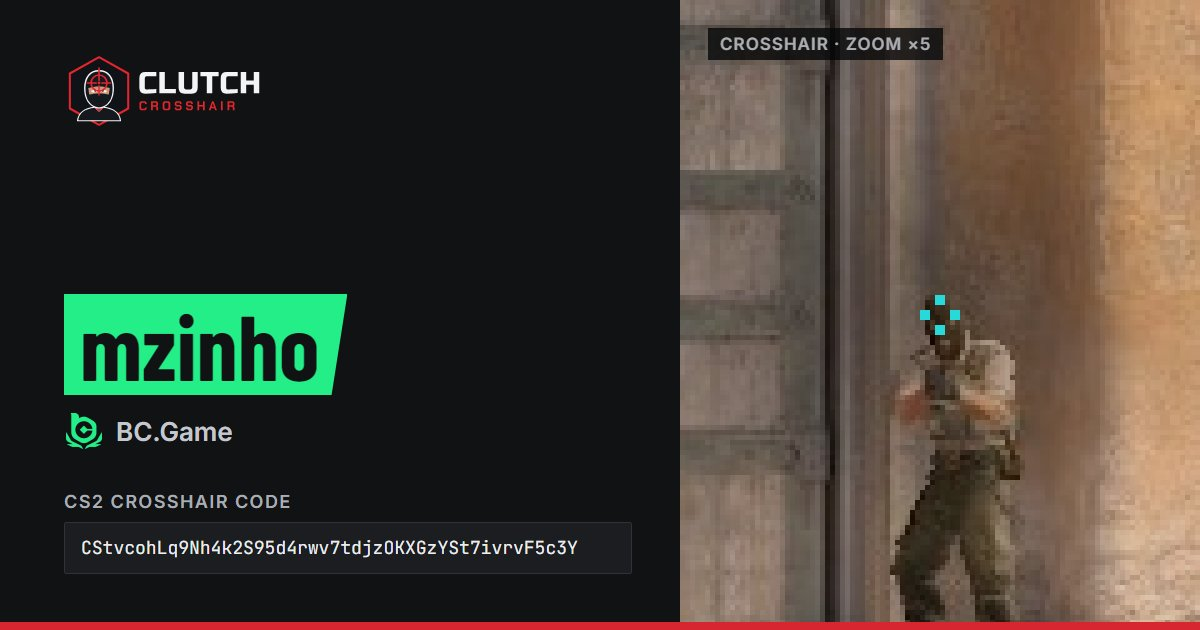
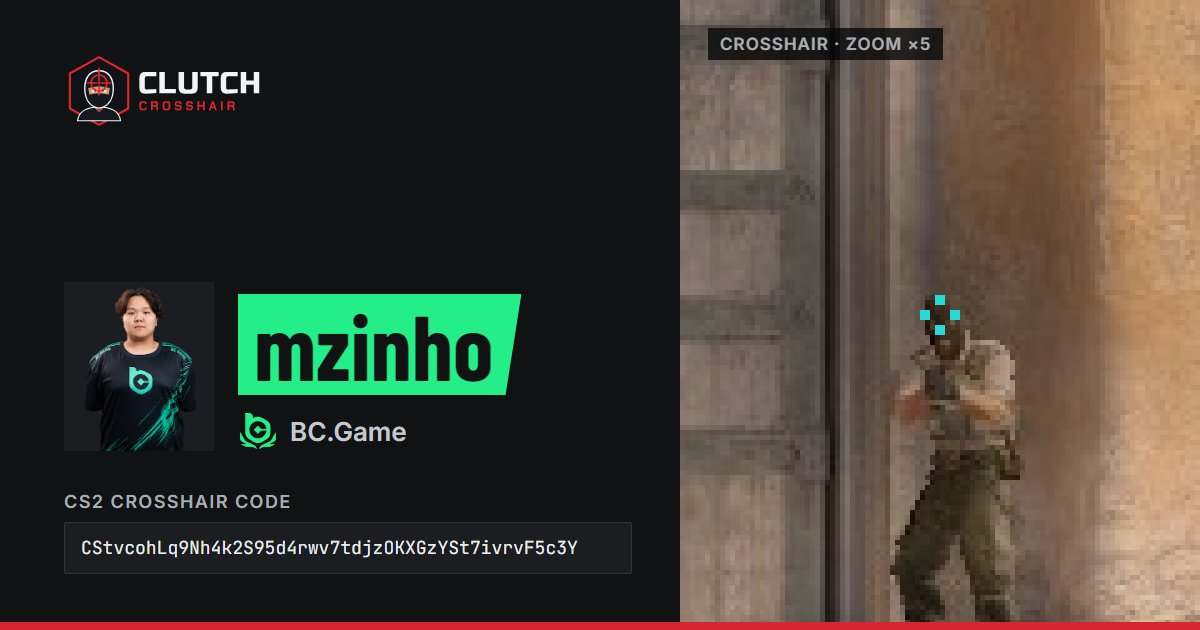
Photo : mzinho

Changed region(s): [[0.0308, 0.4524, 0.4317, 0.7238]]

diff --git a/ru/players/mzinho.html b/ru/players/mzinho.html
@@ -38,21 +38,21 @@
     <meta property="og:title" content="Прицел mzinho в CS2: код">
     <meta property="og:description" content="Скопируйте код прицела mzinho (BC.Game) для CS2 в один клик: предпросмотр в реальном размере, консольные команды и настройки. Из матча от 22/10/2026.">
     <meta property="og:url" content="https://clutchcrosshair.com/ru/players/mzinho">
-    <meta property="og:image" content="https://clutchcrosshair.com/og/mzinho.jpg?v=7a1202c5f5">
+    <meta property="og:image" content="https://clutchcrosshair.com/og/mzinho.jpg?v=6f64770022">
     <meta property="og:image:width" content="1200">
     <meta property="og:image:height" content="630">
     <meta property="og:image:alt" content="Прицел mzinho в CS2: превью и код">
     <meta name="twitter:card" content="summary_large_image">
     <meta name="twitter:title" content="Прицел mzinho в CS2: код">
     <meta name="twitter:description" content="Скопируйте код прицела mzinho (BC.Game) для CS2 в один клик: предпросмотр в реальном размере, консольные команды и настройки. Из матча от 22/10/2026.">
-    <meta name="twitter:image" content="https://clutchcrosshair.com/og/mzinho.jpg?v=7a1202c5f5">
+    <meta name="twitter:image" content="https://clutchcrosshair.com/og/mzinho.jpg?v=6f64770022">
     <link rel="preload" href="../../fonts/inter-latin.woff2" as="font" type="font/woff2" crossorigin>
     <link rel="preload" href="../../fonts/barlow-condensed-700-latin.woff2" as="font" type="font/woff2" crossorigin>
     <link rel="stylesheet" href="../../style.min.css?v=681f2d2464">
     <link rel="modulepreload" href="../../crosshair.min.js?v=da13dcace5">
     <link rel="modulepreload" href="../../lib/csgo-sharecode.js">
     <link rel="preload" href="../../preview-bg.webp?v=282ecb7043" as="image" type="image/webp">
-    <script type="application/ld+json">{"@context":"https://schema.org","@graph":[{"@type":"WebPage","@id":"https://clutchcrosshair.com/ru/players/mzinho","url":"https://clutchcrosshair.com/ru/players/mzinho","name":"Код прицела mzinho в CS2","inLanguage":"ru","isPartOf":{"@id":"https://clutchcrosshair.com/#website"},"about":{"@id":"https://clutchcrosshair.com/ru/players/mzinho#person"},"breadcrumb":{"@id":"https://clutchcrosshair.com/ru/players/mzinho#breadcrumb"},"dateModified":"2026-10-22"},{"@type":"BreadcrumbList","@id":"https://clutchcrosshair.com/ru/players/mzinho#breadcrumb","itemListElement":[{"@type":"ListItem","position":1,"name":"Главная","item":"https://clutchcrosshair.com/ru/"},{"@type":"ListItem","position":2,"name":"Прицел mzinho","item":"https://clutchcrosshair.com/ru/players/mzinho"}]},{"@type":"Person","@id":"https://clutchcrosshair.com/ru/players/mzinho#person","name":"mzinho","description":"mzinho — профессиональный игрок CS2 в команде BC.Game. Код прицела взят из демо официального матча.","url":"https://clutchcrosshair.com/ru/players/mzinho","memberOf":{"@type":"SportsTeam","name":"BC.Game","sport":"Counter-Strike 2"},"sameAs":["https://steamcommunity.com/profiles/76561198838822582"]},{"@type":"FAQPage","@id":"https://clutchcrosshair.com/ru/players/mzinho#faq","mainEntity":[{"@type":"Question","name":"Какой код прицела у mzinho в CS2?","acceptedAnswer":{"@type":"Answer","text":"Код прицела mzinho в CS2: CStvcohLq9Nh4k2S95d4rwv7tdjzOKXGzYSt7ivrvF5c3Y. Он взят из демо официального матча от 22/10/2026."}},{"@type":"Question","name":"Какие настройки прицела у mzinho?","acceptedAnswer":{"@type":"Answer","text":"mzinho играет с прицелом: очень короткий, голубой, статичный — длина 2 px, толщина 2 px, зазор 2, без обводки и без точки в центре; настроен для высоты экрана 1024p."}}]}]}</script>
+    <script type="application/ld+json">{"@context":"https://schema.org","@graph":[{"@type":"WebPage","@id":"https://clutchcrosshair.com/ru/players/mzinho","url":"https://clutchcrosshair.com/ru/players/mzinho","name":"Код прицела mzinho в CS2","inLanguage":"ru","isPartOf":{"@id":"https://clutchcrosshair.com/#website"},"about":{"@id":"https://clutchcrosshair.com/ru/players/mzinho#person"},"breadcrumb":{"@id":"https://clutchcrosshair.com/ru/players/mzinho#breadcrumb"},"dateModified":"2026-10-22","primaryImageOfPage":{"@type":"ImageObject","url":"https://clutchcrosshair.com/photos/mzinho.webp"}},{"@type":"BreadcrumbList","@id":"https://clutchcrosshair.com/ru/players/mzinho#breadcrumb","itemListElement":[{"@type":"ListItem","position":1,"name":"Главная","item":"https://clutchcrosshair.com/ru/"},{"@type":"ListItem","position":2,"name":"Прицел mzinho","item":"https://clutchcrosshair.com/ru/players/mzinho"}]},{"@type":"Person","@id":"https://clutchcrosshair.com/ru/players/mzinho#person","name":"mzinho","description":"mzinho — профессиональный игрок CS2 в команде BC.Game. Код прицела взят из демо официального матча.","url":"https://clutchcrosshair.com/ru/players/mzinho","memberOf":{"@type":"SportsTeam","name":"BC.Game","sport":"Counter-Strike 2"},"image":"https://clutchcrosshair.com/photos/mzinho.webp","sameAs":["https://steamcommunity.com/profiles/76561198838822582"]},{"@type":"FAQPage","@id":"https://clutchcrosshair.com/ru/players/mzinho#faq","mainEntity":[{"@type":"Question","name":"Какой код прицела у mzinho в CS2?","acceptedAnswer":{"@type":"Answer","text":"Код прицела mzinho в CS2: CStvcohLq9Nh4k2S95d4rwv7tdjzOKXGzYSt7ivrvF5c3Y. Он взят из демо официального матча от 22/10/2026."}},{"@type":"Question","name":"Какие настройки прицела у mzinho?","acceptedAnswer":{"@type":"Answer","text":"mzinho играет с прицелом: очень короткий, голубой, статичный — длина 2 px, толщина 2 px, зазор 2, без обводки и без точки в центре; настроен для высоты экрана 1024p."}}]}]}</script>
     <script src="../../consent.min.js?v=fdcf5763f3" data-legal="../legal" defer></script>
     <script src="../../lang-banner.min.js?v=aec40a5320" defer></script>
 </head>
@@ -92,7 +92,7 @@
         <nav class="breadcrumb" aria-label="Навигационная цепочка"><a href="../" class="crumb-home"><svg class="crumb-icon" viewBox="0 0 24 24" aria-hidden="true"><path d="M12 3 2 11.5h3V21h5.5v-6h3v6H19v-9.5h3L12 3Z"/></svg>Главная</a> › <span>mzinho</span></nav>
 
         <div class="player-head">
-            <div class="player-photo">MZ</div>
+            <img class="player-photo" src="../../photos/md/mzinho.webp?v=e48a1b7c67" alt="mzinho, BC.Game" width="120" height="134" fetchpriority="high" decoding="async">
             <div>
                 <h1>Прицел mzinho в CS2</h1>
                 <p class="player-team"><img class="player-team-logo" src="../../logos/sm/bcgame.webp?v=652558305a" alt="" width="20" height="20">BC.Game</p>

diff --git a/es/players/mzinho.html b/es/players/mzinho.html
@@ -38,21 +38,21 @@
     <meta property="og:title" content="Código de crosshair de mzinho en CS2">
     <meta property="og:description" content="Copia en un clic el código de crosshair de CS2 de mzinho (BC.Game): vista previa a tamaño real, comandos y ajustes. Partido del 22/10/2026.">
     <meta property="og:url" content="https://clutchcrosshair.com/es/players/mzinho">
-    <meta property="og:image" content="https://clutchcrosshair.com/og/mzinho.jpg?v=7a1202c5f5">
+    <meta property="og:image" content="https://clutchcrosshair.com/og/mzinho.jpg?v=6f64770022">
     <meta property="og:image:width" content="1200">
     <meta property="og:image:height" content="630">
     <meta property="og:image:alt" content="Crosshair de mzinho en CS2: vista previa y código">
     <meta name="twitter:card" content="summary_large_image">
     <meta name="twitter:title" content="Código de crosshair de mzinho en CS2">
     <meta name="twitter:description" content="Copia en un clic el código de crosshair de CS2 de mzinho (BC.Game): vista previa a tamaño real, comandos y ajustes. Partido del 22/10/2026.">
-    <meta name="twitter:image" content="https://clutchcrosshair.com/og/mzinho.jpg?v=7a1202c5f5">
+    <meta name="twitter:image" content="https://clutchcrosshair.com/og/mzinho.jpg?v=6f64770022">
     <link rel="preload" href="../../fonts/inter-latin.woff2" as="font" type="font/woff2" crossorigin>
     <link rel="preload" href="../../fonts/barlow-condensed-700-latin.woff2" as="font" type="font/woff2" crossorigin>
     <link rel="stylesheet" href="../../style.min.css?v=681f2d2464">
     <link rel="modulepreload" href="../../crosshair.min.js?v=da13dcace5">
     <link rel="modulepreload" href="../../lib/csgo-sharecode.js">
     <link rel="preload" href="../../preview-bg.webp?v=282ecb7043" as="image" type="image/webp">
-    <script type="application/ld+json">{"@context":"https://schema.org","@graph":[{"@type":"WebPage","@id":"https://clutchcrosshair.com/es/players/mzinho","url":"https://clutchcrosshair.com/es/players/mzinho","name":"Código de crosshair de mzinho en CS2","inLanguage":"es","isPartOf":{"@id":"https://clutchcrosshair.com/#website"},"about":{"@id":"https://clutchcrosshair.com/es/players/mzinho#person"},"breadcrumb":{"@id":"https://clutchcrosshair.com/es/players/mzinho#breadcrumb"},"dateModified":"2026-10-22"},{"@type":"BreadcrumbList","@id":"https://clutchcrosshair.com/es/players/mzinho#breadcrumb","itemListElement":[{"@type":"ListItem","position":1,"name":"Inicio","item":"https://clutchcrosshair.com/es/"},{"@type":"ListItem","position":2,"name":"Crosshair de mzinho","item":"https://clutchcrosshair.com/es/players/mzinho"}]},{"@type":"Person","@id":"https://clutchcrosshair.com/es/players/mzinho#person","name":"mzinho","description":"mzinho es un jugador profesional de CS2 en BC.Game. Código de crosshair leído de la demo de un partido oficial.","url":"https://clutchcrosshair.com/es/players/mzinho","memberOf":{"@type":"SportsTeam","name":"BC.Game","sport":"Counter-Strike 2"},"sameAs":["https://steamcommunity.com/profiles/76561198838822582"]},{"@type":"FAQPage","@id":"https://clutchcrosshair.com/es/players/mzinho#faq","mainEntity":[{"@type":"Question","name":"¿Cuál es el código de crosshair de mzinho en CS2?","acceptedAnswer":{"@type":"Answer","text":"El código de crosshair de CS2 de mzinho es CStvcohLq9Nh4k2S95d4rwv7tdjzOKXGzYSt7ivrvF5c3Y. Se leyó de la demo de un partido oficial el 22/10/2026."}},{"@type":"Question","name":"¿Qué ajustes de crosshair usa mzinho?","acceptedAnswer":{"@type":"Answer","text":"mzinho usa un crosshair cian muy corto estático: 2 px de largo, 2 px de grosor, una separación de 2, sin contorno y sin punto central, configurado para una altura de pantalla de 1024p."}}]}]}</script>
+    <script type="application/ld+json">{"@context":"https://schema.org","@graph":[{"@type":"WebPage","@id":"https://clutchcrosshair.com/es/players/mzinho","url":"https://clutchcrosshair.com/es/players/mzinho","name":"Código de crosshair de mzinho en CS2","inLanguage":"es","isPartOf":{"@id":"https://clutchcrosshair.com/#website"},"about":{"@id":"https://clutchcrosshair.com/es/players/mzinho#person"},"breadcrumb":{"@id":"https://clutchcrosshair.com/es/players/mzinho#breadcrumb"},"dateModified":"2026-10-22","primaryImageOfPage":{"@type":"ImageObject","url":"https://clutchcrosshair.com/photos/mzinho.webp"}},{"@type":"BreadcrumbList","@id":"https://clutchcrosshair.com/es/players/mzinho#breadcrumb","itemListElement":[{"@type":"ListItem","position":1,"name":"Inicio","item":"https://clutchcrosshair.com/es/"},{"@type":"ListItem","position":2,"name":"Crosshair de mzinho","item":"https://clutchcrosshair.com/es/players/mzinho"}]},{"@type":"Person","@id":"https://clutchcrosshair.com/es/players/mzinho#person","name":"mzinho","description":"mzinho es un jugador profesional de CS2 en BC.Game. Código de crosshair leído de la demo de un partido oficial.","url":"https://clutchcrosshair.com/es/players/mzinho","memberOf":{"@type":"SportsTeam","name":"BC.Game","sport":"Counter-Strike 2"},"image":"https://clutchcrosshair.com/photos/mzinho.webp","sameAs":["https://steamcommunity.com/profiles/76561198838822582"]},{"@type":"FAQPage","@id":"https://clutchcrosshair.com/es/players/mzinho#faq","mainEntity":[{"@type":"Question","name":"¿Cuál es el código de crosshair de mzinho en CS2?","acceptedAnswer":{"@type":"Answer","text":"El código de crosshair de CS2 de mzinho es CStvcohLq9Nh4k2S95d4rwv7tdjzOKXGzYSt7ivrvF5c3Y. Se leyó de la demo de un partido oficial el 22/10/2026."}},{"@type":"Question","name":"¿Qué ajustes de crosshair usa mzinho?","acceptedAnswer":{"@type":"Answer","text":"mzinho usa un crosshair cian muy corto estático: 2 px de largo, 2 px de grosor, una separación de 2, sin contorno y sin punto central, configurado para una altura de pantalla de 1024p."}}]}]}</script>
     <script src="../../consent.min.js?v=fdcf5763f3" data-legal="../legal" defer></script>
     <script src="../../lang-banner.min.js?v=aec40a5320" defer></script>
 </head>
@@ -92,7 +92,7 @@
         <nav class="breadcrumb" aria-label="Ruta de navegación"><a href="../" class="crumb-home"><svg class="crumb-icon" viewBox="0 0 24 24" aria-hidden="true"><path d="M12 3 2 11.5h3V21h5.5v-6h3v6H19v-9.5h3L12 3Z"/></svg>Inicio</a> › <span>mzinho</span></nav>
 
         <div class="player-head">
-            <div class="player-photo">MZ</div>
+            <img class="player-photo" src="../../photos/md/mzinho.webp?v=e48a1b7c67" alt="mzinho, BC.Game" width="120" height="134" fetchpriority="high" decoding="async">
             <div>
                 <h1>Crosshair de mzinho en CS2</h1>
                 <p class="player-team"><img class="player-team-logo" src="../../logos/sm/bcgame.webp?v=652558305a" alt="" width="20" height="20">BC.Game</p>

diff --git a/fr/players/mzinho.html b/fr/players/mzinho.html
@@ -38,21 +38,21 @@
     <meta property="og:title" content="Code crosshair CS2 de mzinho">
     <meta property="og:description" content="Copie le code crosshair CS2 de mzinho (BC.Game) en un clic : aperçu taille réelle, commandes console et réglages. Lu dans un match du 22/10/2026.">
     <meta property="og:url" content="https://clutchcrosshair.com/fr/players/mzinho">
-    <meta property="og:image" content="https://clutchcrosshair.com/og/mzinho.jpg?v=7a1202c5f5">
+    <meta property="og:image" content="https://clutchcrosshair.com/og/mzinho.jpg?v=6f64770022">
     <meta property="og:image:width" content="1200">
     <meta property="og:image:height" content="630">
     <meta property="og:image:alt" content="Crosshair CS2 de mzinho : aperçu et code">
     <meta name="twitter:card" content="summary_large_image">
     <meta name="twitter:title" content="Code crosshair CS2 de mzinho">
     <meta name="twitter:description" content="Copie le code crosshair CS2 de mzinho (BC.Game) en un clic : aperçu taille réelle, commandes console et réglages. Lu dans un match du 22/10/2026.">
-    <meta name="twitter:image" content="https://clutchcrosshair.com/og/mzinho.jpg?v=7a1202c5f5">
+    <meta name="twitter:image" content="https://clutchcrosshair.com/og/mzinho.jpg?v=6f64770022">
     <link rel="preload" href="../../fonts/inter-latin.woff2" as="font" type="font/woff2" crossorigin>
     <link rel="preload" href="../../fonts/barlow-condensed-700-latin.woff2" as="font" type="font/woff2" crossorigin>
     <link rel="stylesheet" href="../../style.min.css?v=681f2d2464">
     <link rel="modulepreload" href="../../crosshair.min.js?v=da13dcace5">
     <link rel="modulepreload" href="../../lib/csgo-sharecode.js">
     <link rel="preload" href="../../preview-bg.webp?v=282ecb7043" as="image" type="image/webp">
-    <script type="application/ld+json">{"@context":"https://schema.org","@graph":[{"@type":"WebPage","@id":"https://clutchcrosshair.com/fr/players/mzinho","url":"https://clutchcrosshair.com/fr/players/mzinho","name":"Code crosshair CS2 de mzinho","inLanguage":"fr","isPartOf":{"@id":"https://clutchcrosshair.com/#website"},"about":{"@id":"https://clutchcrosshair.com/fr/players/mzinho#person"},"breadcrumb":{"@id":"https://clutchcrosshair.com/fr/players/mzinho#breadcrumb"},"dateModified":"2026-10-22"},{"@type":"BreadcrumbList","@id":"https://clutchcrosshair.com/fr/players/mzinho#breadcrumb","itemListElement":[{"@type":"ListItem","position":1,"name":"Accueil","item":"https://clutchcrosshair.com/fr/"},{"@type":"ListItem","position":2,"name":"Crosshair de mzinho","item":"https://clutchcrosshair.com/fr/players/mzinho"}]},{"@type":"Person","@id":"https://clutchcrosshair.com/fr/players/mzinho#person","name":"mzinho","description":"mzinho est un joueur pro CS2 de BC.Game. Code crosshair CS2 lu dans la démo d'un match officiel.","url":"https://clutchcrosshair.com/fr/players/mzinho","memberOf":{"@type":"SportsTeam","name":"BC.Game","sport":"Counter-Strike 2"},"sameAs":["https://steamcommunity.com/profiles/76561198838822582"]},{"@type":"FAQPage","@id":"https://clutchcrosshair.com/fr/players/mzinho#faq","mainEntity":[{"@type":"Question","name":"Quel est le code crosshair CS2 de mzinho ?","acceptedAnswer":{"@type":"Answer","text":"Le code crosshair CS2 de mzinho est CStvcohLq9Nh4k2S95d4rwv7tdjzOKXGzYSt7ivrvF5c3Y. Il a été lu dans la démo d'un match officiel du 22/10/2026."}},{"@type":"Question","name":"Quels réglages de crosshair utilise mzinho ?","acceptedAnswer":{"@type":"Answer","text":"mzinho utilise un crosshair cyan très court statique : 2 px de long, 2 px d'épaisseur, un écart de 2, pas de contour et pas de point central, réglé pour une hauteur d'écran de 1024p."}}]}]}</script>
+    <script type="application/ld+json">{"@context":"https://schema.org","@graph":[{"@type":"WebPage","@id":"https://clutchcrosshair.com/fr/players/mzinho","url":"https://clutchcrosshair.com/fr/players/mzinho","name":"Code crosshair CS2 de mzinho","inLanguage":"fr","isPartOf":{"@id":"https://clutchcrosshair.com/#website"},"about":{"@id":"https://clutchcrosshair.com/fr/players/mzinho#person"},"breadcrumb":{"@id":"https://clutchcrosshair.com/fr/players/mzinho#breadcrumb"},"dateModified":"2026-10-22","primaryImageOfPage":{"@type":"ImageObject","url":"https://clutchcrosshair.com/photos/mzinho.webp"}},{"@type":"BreadcrumbList","@id":"https://clutchcrosshair.com/fr/players/mzinho#breadcrumb","itemListElement":[{"@type":"ListItem","position":1,"name":"Accueil","item":"https://clutchcrosshair.com/fr/"},{"@type":"ListItem","position":2,"name":"Crosshair de mzinho","item":"https://clutchcrosshair.com/fr/players/mzinho"}]},{"@type":"Person","@id":"https://clutchcrosshair.com/fr/players/mzinho#person","name":"mzinho","description":"mzinho est un joueur pro CS2 de BC.Game. Code crosshair CS2 lu dans la démo d'un match officiel.","url":"https://clutchcrosshair.com/fr/players/mzinho","memberOf":{"@type":"SportsTeam","name":"BC.Game","sport":"Counter-Strike 2"},"image":"https://clutchcrosshair.com/photos/mzinho.webp","sameAs":["https://steamcommunity.com/profiles/76561198838822582"]},{"@type":"FAQPage","@id":"https://clutchcrosshair.com/fr/players/mzinho#faq","mainEntity":[{"@type":"Question","name":"Quel est le code crosshair CS2 de mzinho ?","acceptedAnswer":{"@type":"Answer","text":"Le code crosshair CS2 de mzinho est CStvcohLq9Nh4k2S95d4rwv7tdjzOKXGzYSt7ivrvF5c3Y. Il a été lu dans la démo d'un match officiel du 22/10/2026."}},{"@type":"Question","name":"Quels réglages de crosshair utilise mzinho ?","acceptedAnswer":{"@type":"Answer","text":"mzinho utilise un crosshair cyan très court statique : 2 px de long, 2 px d'épaisseur, un écart de 2, pas de contour et pas de point central, réglé pour une hauteur d'écran de 1024p."}}]}]}</script>
     <script src="../../consent.min.js?v=fdcf5763f3" data-legal="../legal" defer></script>
     <script src="../../lang-banner.min.js?v=aec40a5320" defer></script>
 </head>
@@ -92,7 +92,7 @@
         <nav class="breadcrumb" aria-label="Fil d'Ariane"><a href="../" class="crumb-home"><svg class="crumb-icon" viewBox="0 0 24 24" aria-hidden="true"><path d="M12 3 2 11.5h3V21h5.5v-6h3v6H19v-9.5h3L12 3Z"/></svg>Accueil</a> › <span>mzinho</span></nav>
 
         <div class="player-head">
-            <div class="player-photo">MZ</div>
+            <img class="player-photo" src="../../photos/md/mzinho.webp?v=e48a1b7c67" alt="mzinho, BC.Game" width="120" height="134" fetchpriority="high" decoding="async">
             <div>
                 <h1>Crosshair CS2 de mzinho</h1>
                 <p class="player-team"><img class="player-team-logo" src="../../logos/sm/bcgame.webp?v=652558305a" alt="" width="20" height="20">BC.Game</p>

diff --git a/tr/players/mzinho.html b/tr/players/mzinho.html
@@ -38,21 +38,21 @@
     <meta property="og:title" content="mzinho CS2 Crosshair Kodu">
     <meta property="og:description" content="mzinho (BC.Game) CS2 crosshair kodunu tek tıkla kopyala: gerçek boyutlu önizleme, konsol komutları ve ayarlar. 22/10/2026 tarihli maçtan.">
     <meta property="og:url" content="https://clutchcrosshair.com/tr/players/mzinho">
-    <meta property="og:image" content="https://clutchcrosshair.com/og/mzinho.jpg?v=7a1202c5f5">
+    <meta property="og:image" content="https://clutchcrosshair.com/og/mzinho.jpg?v=6f64770022">
     <meta property="og:image:width" content="1200">
     <meta property="og:image:height" content="630">
     <meta property="og:image:alt" content="mzinho CS2 crosshair: önizleme ve kod">
     <meta name="twitter:card" content="summary_large_image">
     <meta name="twitter:title" content="mzinho CS2 Crosshair Kodu">
     <meta name="twitter:description" content="mzinho (BC.Game) CS2 crosshair kodunu tek tıkla kopyala: gerçek boyutlu önizleme, konsol komutları ve ayarlar. 22/10/2026 tarihli maçtan.">
-    <meta name="twitter:image" content="https://clutchcrosshair.com/og/mzinho.jpg?v=7a1202c5f5">
+    <meta name="twitter:image" content="https://clutchcrosshair.com/og/mzinho.jpg?v=6f64770022">
     <link rel="preload" href="../../fonts/inter-latin.woff2" as="font" type="font/woff2" crossorigin>
     <link rel="preload" href="../../fonts/barlow-condensed-700-latin.woff2" as="font" type="font/woff2" crossorigin>
     <link rel="stylesheet" href="../../style.min.css?v=681f2d2464">
     <link rel="modulepreload" href="../../crosshair.min.js?v=da13dcace5">
     <link rel="modulepreload" href="../../lib/csgo-sharecode.js">
     <link rel="preload" href="../../preview-bg.webp?v=282ecb7043" as="image" type="image/webp">
-    <script type="application/ld+json">{"@context":"https://schema.org","@graph":[{"@type":"WebPage","@id":"https://clutchcrosshair.com/tr/players/mzinho","url":"https://clutchcrosshair.com/tr/players/mzinho","name":"mzinho CS2 Crosshair Kodu","inLanguage":"tr","isPartOf":{"@id":"https://clutchcrosshair.com/#website"},"about":{"@id":"https://clutchcrosshair.com/tr/players/mzinho#person"},"breadcrumb":{"@id":"https://clutchcrosshair.com/tr/players/mzinho#breadcrumb"},"dateModified":"2026-10-22"},{"@type":"BreadcrumbList","@id":"https://clutchcrosshair.com/tr/players/mzinho#breadcrumb","itemListElement":[{"@type":"ListItem","position":1,"name":"Ana sayfa","item":"https://clutchcrosshair.com/tr/"},{"@type":"ListItem","position":2,"name":"mzinho crosshair","item":"https://clutchcrosshair.com/tr/players/mzinho"}]},{"@type":"Person","@id":"https://clutchcrosshair.com/tr/players/mzinho#person","name":"mzinho","description":"mzinho, BC.Game takımında oynayan profesyonel bir CS2 oyuncusu. CS2 crosshair kodu resmi bir maç demosundan alındı.","url":"https://clutchcrosshair.com/tr/players/mzinho","memberOf":{"@type":"SportsTeam","name":"BC.Game","sport":"Counter-Strike 2"},"sameAs":["https://steamcommunity.com/profiles/76561198838822582"]},{"@type":"FAQPage","@id":"https://clutchcrosshair.com/tr/players/mzinho#faq","mainEntity":[{"@type":"Question","name":"mzinho CS2 crosshair kodu nedir?","acceptedAnswer":{"@type":"Answer","text":"mzinho adlı oyuncunun CS2 crosshair kodu: CStvcohLq9Nh4k2S95d4rwv7tdjzOKXGzYSt7ivrvF5c3Y. 22/10/2026 tarihli resmi bir maç demosundan alındı."}},{"@type":"Question","name":"mzinho hangi crosshair ayarlarını kullanıyor?","acceptedAnswer":{"@type":"Answer","text":"mzinho, çok kısa camgöbeği sabit bir crosshair kullanıyor: 2 px uzunluk, 2 px kalınlık, 2 boşluk, dış çizgi yok ve orta nokta yok; 1024p ekran yüksekliğine göre ayarlanmış."}}]}]}</script>
+    <script type="application/ld+json">{"@context":"https://schema.org","@graph":[{"@type":"WebPage","@id":"https://clutchcrosshair.com/tr/players/mzinho","url":"https://clutchcrosshair.com/tr/players/mzinho","name":"mzinho CS2 Crosshair Kodu","inLanguage":"tr","isPartOf":{"@id":"https://clutchcrosshair.com/#website"},"about":{"@id":"https://clutchcrosshair.com/tr/players/mzinho#person"},"breadcrumb":{"@id":"https://clutchcrosshair.com/tr/players/mzinho#breadcrumb"},"dateModified":"2026-10-22","primaryImageOfPage":{"@type":"ImageObject","url":"https://clutchcrosshair.com/photos/mzinho.webp"}},{"@type":"BreadcrumbList","@id":"https://clutchcrosshair.com/tr/players/mzinho#breadcrumb","itemListElement":[{"@type":"ListItem","position":1,"name":"Ana sayfa","item":"https://clutchcrosshair.com/tr/"},{"@type":"ListItem","position":2,"name":"mzinho crosshair","item":"https://clutchcrosshair.com/tr/players/mzinho"}]},{"@type":"Person","@id":"https://clutchcrosshair.com/tr/players/mzinho#person","name":"mzinho","description":"mzinho, BC.Game takımında oynayan profesyonel bir CS2 oyuncusu. CS2 crosshair kodu resmi bir maç demosundan alındı.","url":"https://clutchcrosshair.com/tr/players/mzinho","memberOf":{"@type":"SportsTeam","name":"BC.Game","sport":"Counter-Strike 2"},"image":"https://clutchcrosshair.com/photos/mzinho.webp","sameAs":["https://steamcommunity.com/profiles/76561198838822582"]},{"@type":"FAQPage","@id":"https://clutchcrosshair.com/tr/players/mzinho#faq","mainEntity":[{"@type":"Question","name":"mzinho CS2 crosshair kodu nedir?","acceptedAnswer":{"@type":"Answer","text":"mzinho adlı oyuncunun CS2 crosshair kodu: CStvcohLq9Nh4k2S95d4rwv7tdjzOKXGzYSt7ivrvF5c3Y. 22/10/2026 tarihli resmi bir maç demosundan alındı."}},{"@type":"Question","name":"mzinho hangi crosshair ayarlarını kullanıyor?","acceptedAnswer":{"@type":"Answer","text":"mzinho, çok kısa camgöbeği sabit bir crosshair kullanıyor: 2 px uzunluk, 2 px kalınlık, 2 boşluk, dış çizgi yok ve orta nokta yok; 1024p ekran yüksekliğine göre ayarlanmış."}}]}]}</script>
     <script src="../../consent.min.js?v=fdcf5763f3" data-legal="../legal" defer></script>
     <script src="../../lang-banner.min.js?v=aec40a5320" defer></script>
 </head>
@@ -92,7 +92,7 @@
         <nav class="breadcrumb" aria-label="Sayfa yolu"><a href="../" class="crumb-home"><svg class="crumb-icon" viewBox="0 0 24 24" aria-hidden="true"><path d="M12 3 2 11.5h3V21h5.5v-6h3v6H19v-9.5h3L12 3Z"/></svg>Ana sayfa</a> › <span>mzinho</span></nav>
 
         <div class="player-head">
-            <div class="player-photo">MZ</div>
+            <img class="player-photo" src="../../photos/md/mzinho.webp?v=e48a1b7c67" alt="mzinho, BC.Game" width="120" height="134" fetchpriority="high" decoding="async">
             <div>
                 <h1>mzinho CS2 Crosshair</h1>
                 <p class="player-team"><img class="player-team-logo" src="../../logos/sm/bcgame.webp?v=652558305a" alt="" width="20" height="20">BC.Game</p>

diff --git a/players/mzinho.html b/players/mzinho.html
@@ -37,21 +37,21 @@
     <meta property="og:title" content="mzinho CS2 Crosshair Code">
     <meta property="og:description" content="Copy mzinho&#39;s CS2 crosshair code (BC.Game) in one click: real-size preview, console commands and settings. From a match on 22/10/2026.">
     <meta property="og:url" content="https://clutchcrosshair.com/players/mzinho">
-    <meta property="og:image" content="https://clutchcrosshair.com/og/mzinho.jpg?v=7a1202c5f5">
+    <meta property="og:image" content="https://clutchcrosshair.com/og/mzinho.jpg?v=6f64770022">
     <meta property="og:image:width" content="1200">
     <meta property="og:image:height" content="630">
     <meta property="og:image:alt" content="mzinho CS2 crosshair: preview and share code">
     <meta name="twitter:card" content="summary_large_image">
     <meta name="twitter:title" content="mzinho CS2 Crosshair Code">
     <meta name="twitter:description" content="Copy mzinho&#39;s CS2 crosshair code (BC.Game) in one click: real-size preview, console commands and settings. From a match on 22/10/2026.">
-    <meta name="twitter:image" content="https://clutchcrosshair.com/og/mzinho.jpg?v=7a1202c5f5">
+    <meta name="twitter:image" content="https://clutchcrosshair.com/og/mzinho.jpg?v=6f64770022">
     <link rel="preload" href="../fonts/inter-latin.woff2" as="font" type="font/woff2" crossorigin>
     <link rel="preload" href="../fonts/barlow-condensed-700-latin.woff2" as="font" type="font/woff2" crossorigin>
     <link rel="stylesheet" href="../style.min.css?v=681f2d2464">
     <link rel="modulepreload" href="../crosshair.min.js?v=da13dcace5">
     <link rel="modulepreload" href="../lib/csgo-sharecode.js">
     <link rel="preload" href="../preview-bg.webp?v=282ecb7043" as="image" type="image/webp">
-    <script type="application/ld+json">{"@context":"https://schema.org","@graph":[{"@type":"WebPage","@id":"https://clutchcrosshair.com/players/mzinho","url":"https://clutchcrosshair.com/players/mzinho","name":"mzinho CS2 Crosshair Code","inLanguage":"en","isPartOf":{"@id":"https://clutchcrosshair.com/#website"},"about":{"@id":"https://clutchcrosshair.com/players/mzinho#person"},"breadcrumb":{"@id":"https://clutchcrosshair.com/players/mzinho#breadcrumb"},"dateModified":"2026-10-22"},{"@type":"BreadcrumbList","@id":"https://clutchcrosshair.com/players/mzinho#breadcrumb","itemListElement":[{"@type":"ListItem","position":1,"name":"Home","item":"https://clutchcrosshair.com/"},{"@type":"ListItem","position":2,"name":"mzinho crosshair","item":"https://clutchcrosshair.com/players/mzinho"}]},{"@type":"Person","@id":"https://clutchcrosshair.com/players/mzinho#person","name":"mzinho","description":"mzinho is a CS2 pro player for BC.Game. CS2 crosshair code read from an official match demo.","url":"https://clutchcrosshair.com/players/mzinho","memberOf":{"@type":"SportsTeam","name":"BC.Game","sport":"Counter-Strike 2"},"sameAs":["https://steamcommunity.com/profiles/76561198838822582"]},{"@type":"FAQPage","@id":"https://clutchcrosshair.com/players/mzinho#faq","mainEntity":[{"@type":"Question","name":"What is mzinho's CS2 crosshair code?","acceptedAnswer":{"@type":"Answer","text":"mzinho's CS2 crosshair code is CStvcohLq9Nh4k2S95d4rwv7tdjzOKXGzYSt7ivrvF5c3Y. It was read from an official match demo on 22/10/2026."}},{"@type":"Question","name":"What crosshair settings does mzinho use?","acceptedAnswer":{"@type":"Answer","text":"mzinho uses a very short cyan static crosshair: 2 px long, 2 px thick, a gap of 2, no outline and no center dot, set for a 1024p screen height."}}]}]}</script>
+    <script type="application/ld+json">{"@context":"https://schema.org","@graph":[{"@type":"WebPage","@id":"https://clutchcrosshair.com/players/mzinho","url":"https://clutchcrosshair.com/players/mzinho","name":"mzinho CS2 Crosshair Code","inLanguage":"en","isPartOf":{"@id":"https://clutchcrosshair.com/#website"},"about":{"@id":"https://clutchcrosshair.com/players/mzinho#person"},"breadcrumb":{"@id":"https://clutchcrosshair.com/players/mzinho#breadcrumb"},"dateModified":"2026-10-22","primaryImageOfPage":{"@type":"ImageObject","url":"https://clutchcrosshair.com/photos/mzinho.webp"}},{"@type":"BreadcrumbList","@id":"https://clutchcrosshair.com/players/mzinho#breadcrumb","itemListElement":[{"@type":"ListItem","position":1,"name":"Home","item":"https://clutchcrosshair.com/"},{"@type":"ListItem","position":2,"name":"mzinho crosshair","item":"https://clutchcrosshair.com/players/mzinho"}]},{"@type":"Person","@id":"https://clutchcrosshair.com/players/mzinho#person","name":"mzinho","description":"mzinho is a CS2 pro player for BC.Game. CS2 crosshair code read from an official match demo.","url":"https://clutchcrosshair.com/players/mzinho","memberOf":{"@type":"SportsTeam","name":"BC.Game","sport":"Counter-Strike 2"},"image":"https://clutchcrosshair.com/photos/mzinho.webp","sameAs":["https://steamcommunity.com/profiles/76561198838822582"]},{"@type":"FAQPage","@id":"https://clutchcrosshair.com/players/mzinho#faq","mainEntity":[{"@type":"Question","name":"What is mzinho's CS2 crosshair code?","acceptedAnswer":{"@type":"Answer","text":"mzinho's CS2 crosshair code is CStvcohLq9Nh4k2S95d4rwv7tdjzOKXGzYSt7ivrvF5c3Y. It was read from an official match demo on 22/10/2026."}},{"@type":"Question","name":"What crosshair settings does mzinho use?","acceptedAnswer":{"@type":"Answer","text":"mzinho uses a very short cyan static crosshair: 2 px long, 2 px thick, a gap of 2, no outline and no center dot, set for a 1024p screen height."}}]}]}</script>
     <script src="../consent.min.js?v=fdcf5763f3" data-legal="../legal" defer></script>
     <script src="../lang-banner.min.js?v=aec40a5320" defer></script>
 </head>
@@ -91,7 +91,7 @@
         <nav class="breadcrumb" aria-label="Breadcrumb"><a href="../" class="crumb-home"><svg class="crumb-icon" viewBox="0 0 24 24" aria-hidden="true"><path d="M12 3 2 11.5h3V21h5.5v-6h3v6H19v-9.5h3L12 3Z"/></svg>Home</a> › <span>mzinho</span></nav>
 
         <div class="player-head">
-            <div class="player-photo">MZ</div>
+            <img class="player-photo" src="../photos/md/mzinho.webp?v=e48a1b7c67" alt="mzinho, BC.Game" width="120" height="134" fetchpriority="high" decoding="async">
             <div>
                 <h1>mzinho CS2 Crosshair</h1>
                 <p class="player-team"><img class="player-team-logo" src="../logos/sm/bcgame.webp?v=652558305a" alt="" width="20" height="20">BC.Game</p>

diff --git a/es/index.html b/es/index.html
@@ -1863,10 +1863,10 @@
                 </div>
             </div>
         </article>
-                        <article class="card" data-slug="mzinho" data-team="BC.Game" data-name="mzinho" data-updated="20261022" data-date="22/10/2026" style="--team: #23EE88; --on-team: #111214">
+                        <article class="card" data-slug="mzinho" data-team="BC.Game" data-name="mzinho" data-updated="20261022" data-date="22/10/2026" data-photo="../photos/md/mzinho.webp?v=e48a1b7c67" style="--team: #23EE88; --on-team: #111214">
             <div class="card-top">
                 <h3><a href="players/mzinho">mzinho</a></h3>
-                <div class="card-photo">MZ</div>
+                <img class="card-photo" src="../photos/sm/mzinho.webp?v=8d203e0613" alt="mzinho" width="76" height="86" loading="lazy" decoding="async" data-initials="MZ" onerror="photoFallback(this)">
             </div>
             <div class="card-meta">
                 <span class="team"><span class="team-badge" style="--c: #23EE88"><img src="../logos/sm/bcgame.webp?v=652558305a" alt="" width="16" height="16" decoding="async" onerror="this.remove()"></span>BC.Game</span>

diff --git a/fr/index.html b/fr/index.html
@@ -1863,10 +1863,10 @@
                 </div>
             </div>
         </article>
-                        <article class="card" data-slug="mzinho" data-team="BC.Game" data-name="mzinho" data-updated="20261022" data-date="22/10/2026" style="--team: #23EE88; --on-team: #111214">
+                        <article class="card" data-slug="mzinho" data-team="BC.Game" data-name="mzinho" data-updated="20261022" data-date="22/10/2026" data-photo="../photos/md/mzinho.webp?v=e48a1b7c67" style="--team: #23EE88; --on-team: #111214">
             <div class="card-top">
                 <h3><a href="players/mzinho">mzinho</a></h3>
-                <div class="card-photo">MZ</div>
+                <img class="card-photo" src="../photos/sm/mzinho.webp?v=8d203e0613" alt="mzinho" width="76" height="86" loading="lazy" decoding="async" data-initials="MZ" onerror="photoFallback(this)">
             </div>
             <div class="card-meta">
                 <span class="team"><span class="team-badge" style="--c: #23EE88"><img src="../logos/sm/bcgame.webp?v=652558305a" alt="" width="16" height="16" decoding="async" onerror="this.remove()"></span>BC.Game</span>

diff --git a/ru/index.html b/ru/index.html
@@ -1863,10 +1863,10 @@
                 </div>
             </div>
         </article>
-                        <article class="card" data-slug="mzinho" data-team="BC.Game" data-name="mzinho" data-updated="20261022" data-date="22/10/2026" style="--team: #23EE88; --on-team: #111214">
+                        <article class="card" data-slug="mzinho" data-team="BC.Game" data-name="mzinho" data-updated="20261022" data-date="22/10/2026" data-photo="../photos/md/mzinho.webp?v=e48a1b7c67" style="--team: #23EE88; --on-team: #111214">
             <div class="card-top">
                 <h3><a href="players/mzinho">mzinho</a></h3>
-                <div class="card-photo">MZ</div>
+                <img class="card-photo" src="../photos/sm/mzinho.webp?v=8d203e0613" alt="mzinho" width="76" height="86" loading="lazy" decoding="async" data-initials="MZ" onerror="photoFallback(this)">
             </div>
             <div class="card-meta">
                 <span class="team"><span class="team-badge" style="--c: #23EE88"><img src="../logos/sm/bcgame.webp?v=652558305a" alt="" width="16" height="16" decoding="async" onerror="this.remove()"></span>BC.Game</span>

diff --git a/tr/index.html b/tr/index.html
@@ -1863,10 +1863,10 @@
                 </div>
             </div>
         </article>
-                        <article class="card" data-slug="mzinho" data-team="BC.Game" data-name="mzinho" data-updated="20261022" data-date="22/10/2026" style="--team: #23EE88; --on-team: #111214">
+                        <article class="card" data-slug="mzinho" data-team="BC.Game" data-name="mzinho" data-updated="20261022" data-date="22/10/2026" data-photo="../photos/md/mzinho.webp?v=e48a1b7c67" style="--team: #23EE88; --on-team: #111214">
             <div class="card-top">
                 <h3><a href="players/mzinho">mzinho</a></h3>
-                <div class="card-photo">MZ</div>
+                <img class="card-photo" src="../photos/sm/mzinho.webp?v=8d203e0613" alt="mzinho" width="76" height="86" loading="lazy" decoding="async" data-initials="MZ" onerror="photoFallback(this)">
             </div>
             <div class="card-meta">
                 <span class="team"><span class="team-badge" style="--c: #23EE88"><img src="../logos/sm/bcgame.webp?v=652558305a" alt="" width="16" height="16" decoding="async" onerror="this.remove()"></span>BC.Game</span>

diff --git a/index.html b/index.html
@@ -1862,10 +1862,10 @@
                 </div>
             </div>
         </article>
-                        <article class="card" data-slug="mzinho" data-team="BC.Game" data-name="mzinho" data-updated="20261022" data-date="22/10/2026" style="--team: #23EE88; --on-team: #111214">
+                        <article class="card" data-slug="mzinho" data-team="BC.Game" data-name="mzinho" data-updated="20261022" data-date="22/10/2026" data-photo="photos/md/mzinho.webp?v=e48a1b7c67" style="--team: #23EE88; --on-team: #111214">
             <div class="card-top">
                 <h3><a href="players/mzinho">mzinho</a></h3>
-                <div class="card-photo">MZ</div>
+                <img class="card-photo" src="photos/sm/mzinho.webp?v=8d203e0613" alt="mzinho" width="76" height="86" loading="lazy" decoding="async" data-initials="MZ" onerror="photoFallback(this)">
             </div>
             <div class="card-meta">
                 <span class="team"><span class="team-badge" style="--c: #23EE88"><img src="logos/sm/bcgame.webp?v=652558305a" alt="" width="16" height="16" decoding="async" onerror="this.remove()"></span>BC.Game</span>
